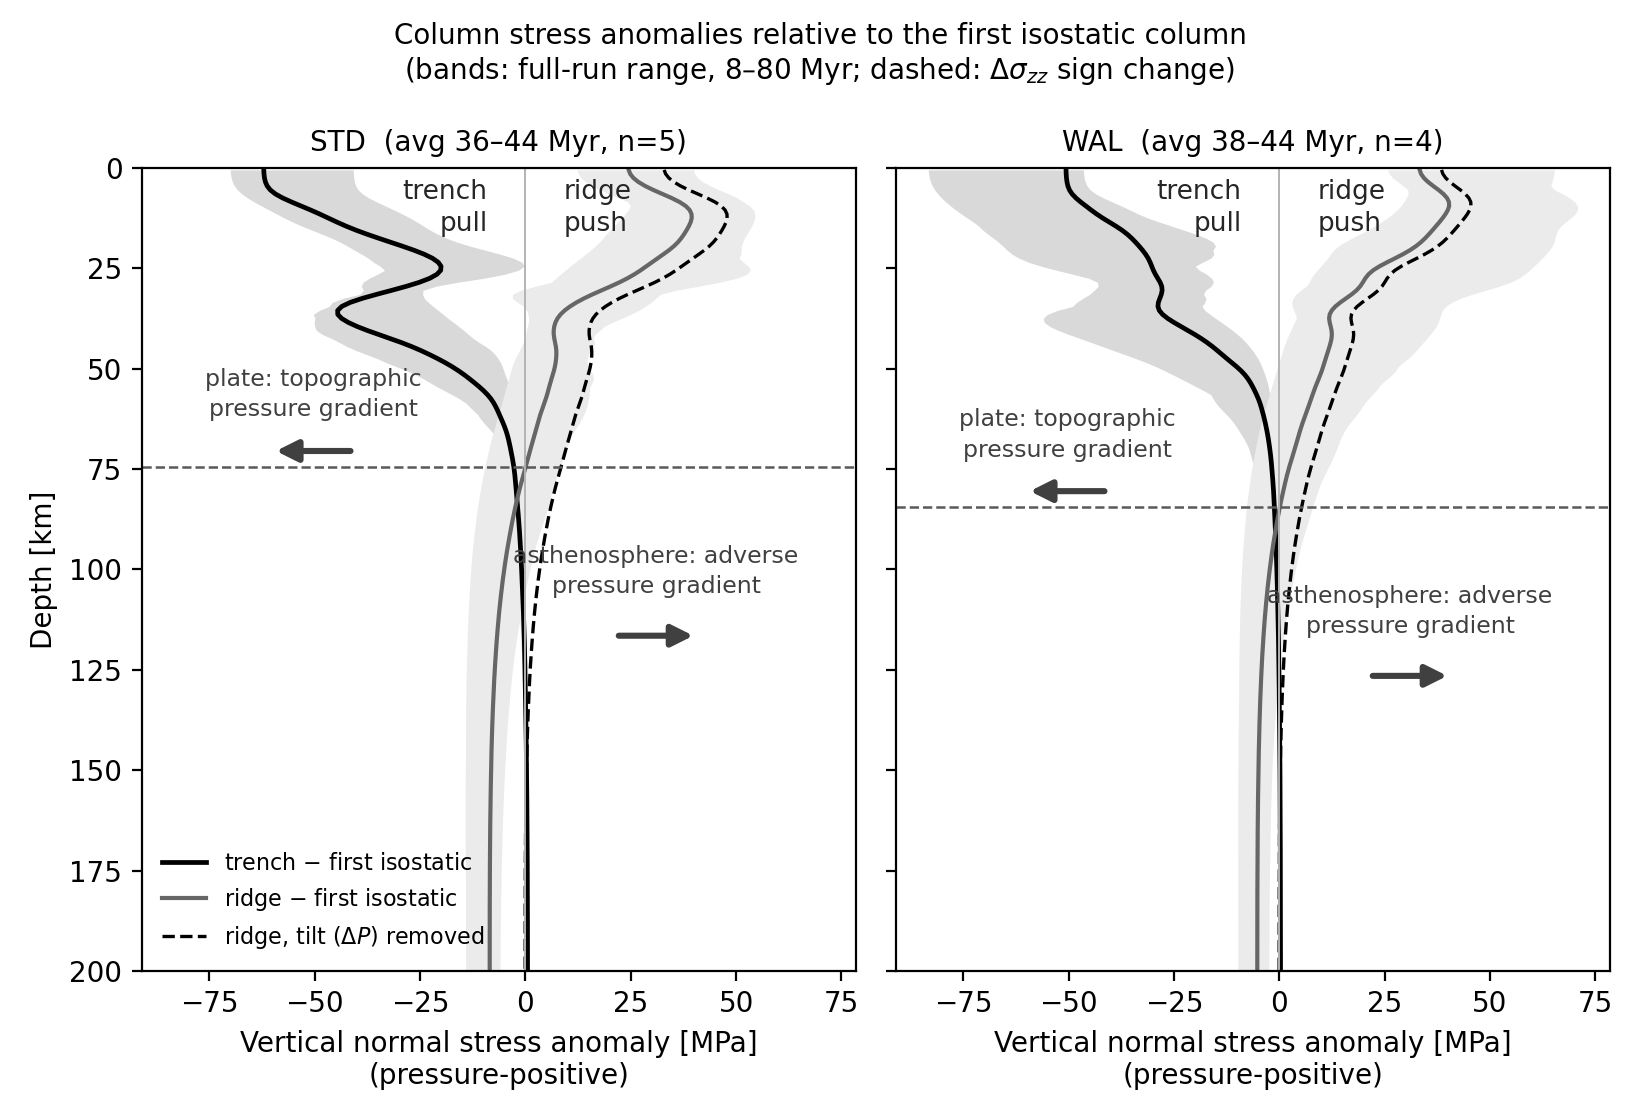
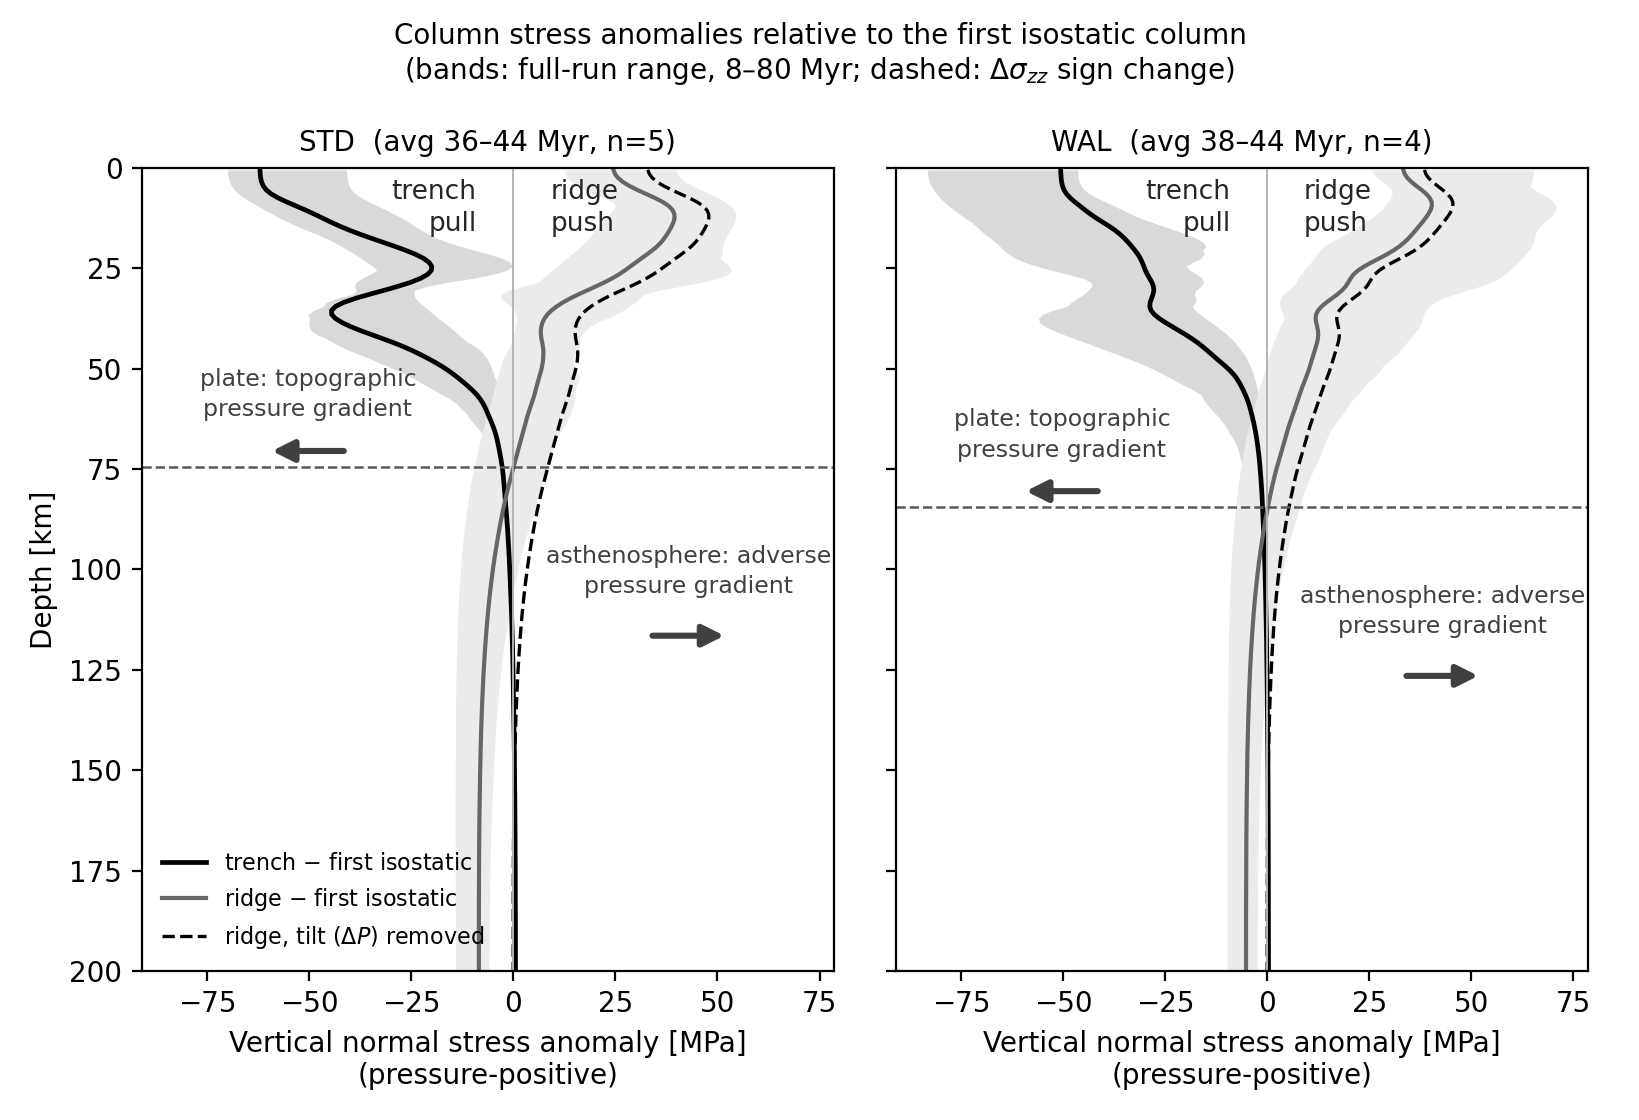
fig_column_anomalies: shift the asthenosphere label clear of the zero axis
The leading 'a' overlapped the zero line; the label and its arrow move
right from 0.72 to 0.79 of the axis width.

diff --git a/scripts/fig_column_anomalies.py b/scripts/fig_column_anomalies.py
@@ -96,7 +96,7 @@ def main():
         # its force-direction arrow beneath. Trench-ward is left.
         for xc, z_lab, z_arr, txt, head in (
                 (0.24, z_x - 18, z_x - 4, 'plate: topographic\npressure gradient', -1),
-                (0.72, z_x + 26, z_x + 42, 'asthenosphere: adverse\npressure gradient', +1)):
+                (0.79, z_x + 26, z_x + 42, 'asthenosphere: adverse\npressure gradient', +1)):
             ax.text(xc, z_lab, txt, transform=ax.get_yaxis_transform(),
                     ha='center', va='center', fontsize=8.5, color='0.25',
                     linespacing=1.4)
